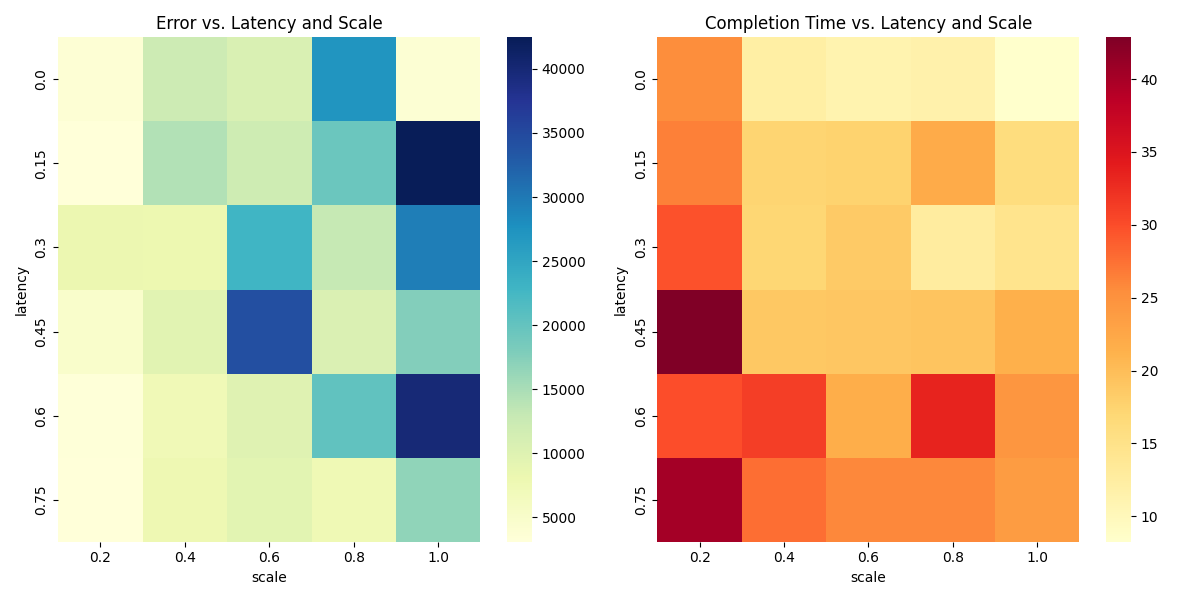
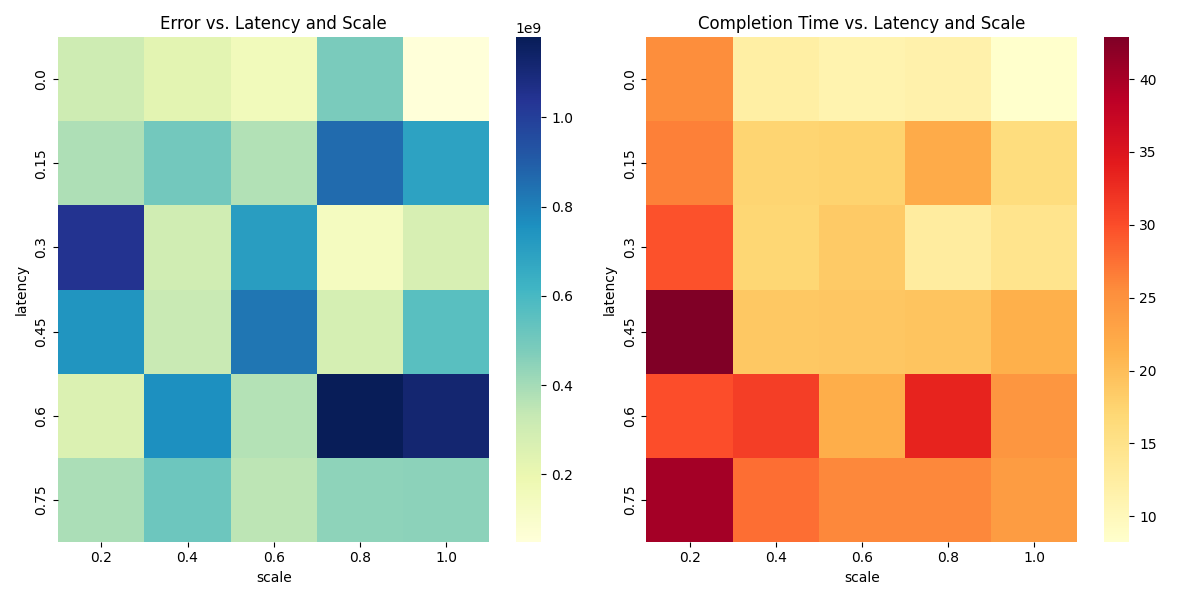
updated process and test_esd

diff --git a/process.py b/process.py
@@ -79,7 +79,7 @@ def plot_heatmaps(metric_df):
     plt.tight_layout()
     plt.savefig('figures/set1_psd/heatmaps_set1.png')
     # Show the plots
-    #plt.show()
+    plt.show()
 
 
 if __name__ == "__main__":
@@ -161,7 +161,7 @@ if __name__ == "__main__":
                     overshoot_distances.append(compute_os_dist(signal, segment["time"]))
 
                     # Calculate ESD
-                    # fc = 0.1 # Hz
+                    fc = 0.1 # Hz
                     # order = 5
                     # duration = len(signal) / fs_mean
                     # padding_duration = 0.1 * duration # seconds
@@ -170,28 +170,33 @@ if __name__ == "__main__":
                     # filtered_signal = high_butter(padded_signal, fs_mean, fc, order)
                     # filtered_signal = filtered_signal[num_padding_samples:-num_padding_samples]
                     # freq, esd = compute_esd(signal, fs_mean)
+
+                    # Compute esd through fft
+                    freq, signal_fft = compute_fft(signal, fs_mean)
+                    fft_mag = np.abs(signal_fft)**2
+                    
                     # # Integrate over specified interval for total energy
-                    # start_freq = fc
-                    # start_idx = np.argmax(freq >= start_freq)
-                    # esd_metric = simps(esd[start_idx:], freq[start_idx:])
-                    # esd_metric_set.append(esd_metric)
+                    start_freq = fc
+                    start_idx = np.argmax(freq >= start_freq)
+                    esd_metric = simps(fft_mag[start_idx:], freq[start_idx:])
+                    esd_metric_set.append(esd_metric)
 
                     # fig, axes = plt.subplots(2, 1, figsize=(12, 8))
                     # fig.suptitle(f"Latency = {latency}, Scale = {scale}")
-                    if (latency == 0.75 and scale == 0.2 and i == 3) or (latency == 0.75 and scale == 1.0 and i == 1):
+                 #    if (latency == 0.75 and scale == 0.2 and i == 3) or (latency == 0.75 and scale == 1.0 and i == 1):
 
-                        signal_data = {"signal": signal, "time": segment["time"], "latency": latency, "scale": scale, "target": i+1}
-                        signals.append(signal_data)
+                #         signal_data = {"signal": signal, "time": segment["time"], "latency": latency, "scale": scale, "target": i+1}
+                #         signals.append(signal_data)
 
         
                 # for i in range(4):
                 #     print(f"Target error: {target_distances[i]}, Overshoot error: {overshoot_distances[i]}")
 
-                # error_metric = c1 * sum(target_distances) + c2 * sum(esd_metric_set)
-                # metric_data.append([latency, scale, error_metric, completion_time])
+                error_metric = c1 * sum(target_distances) + c2 * sum(esd_metric_set)
+                metric_data.append([latency, scale, error_metric, completion_time])
                 
-    # metric_df = pd.DataFrame(metric_data, columns=['latency', 'scale', 'error', 'completion_time'])
-    # plot_heatmaps(metric_df)
+    metric_df = pd.DataFrame(metric_data, columns=['latency', 'scale', 'error', 'completion_time'])
+    plot_heatmaps(metric_df)
     
     # print(metric_df)
                     # # Create a 2x2 subplot for each data segment
